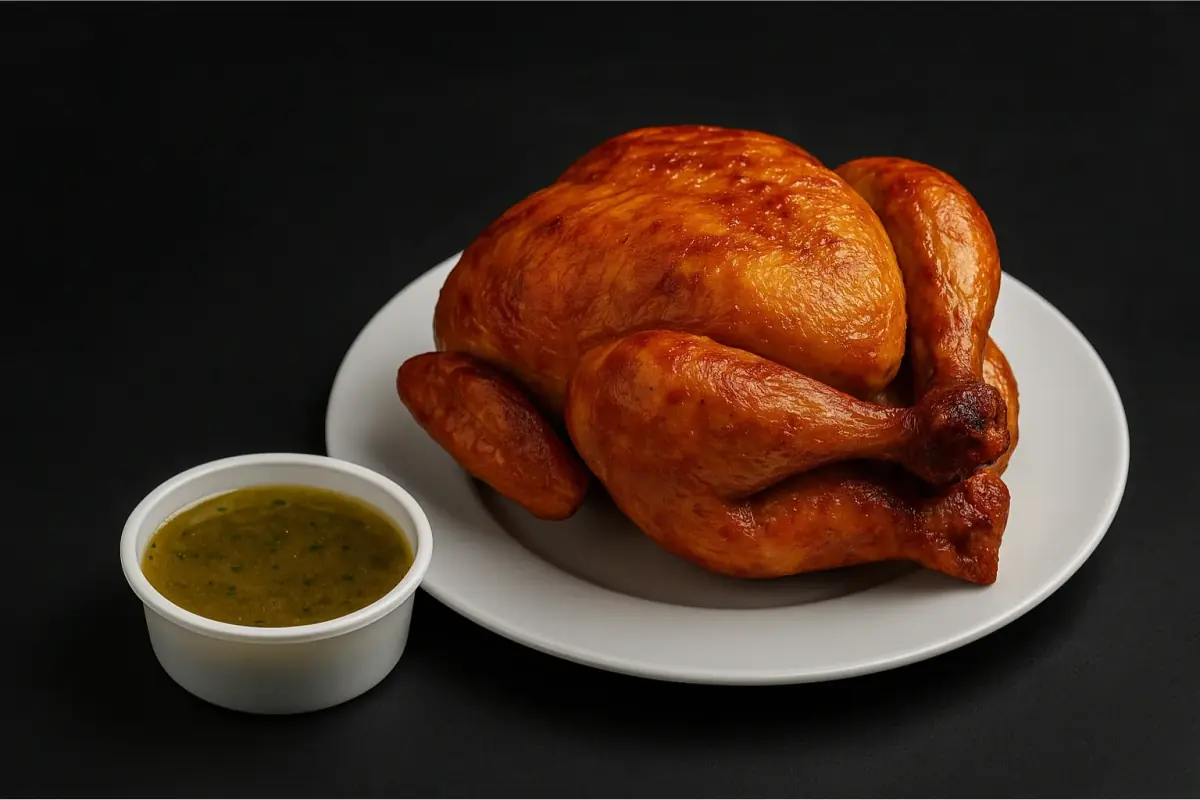
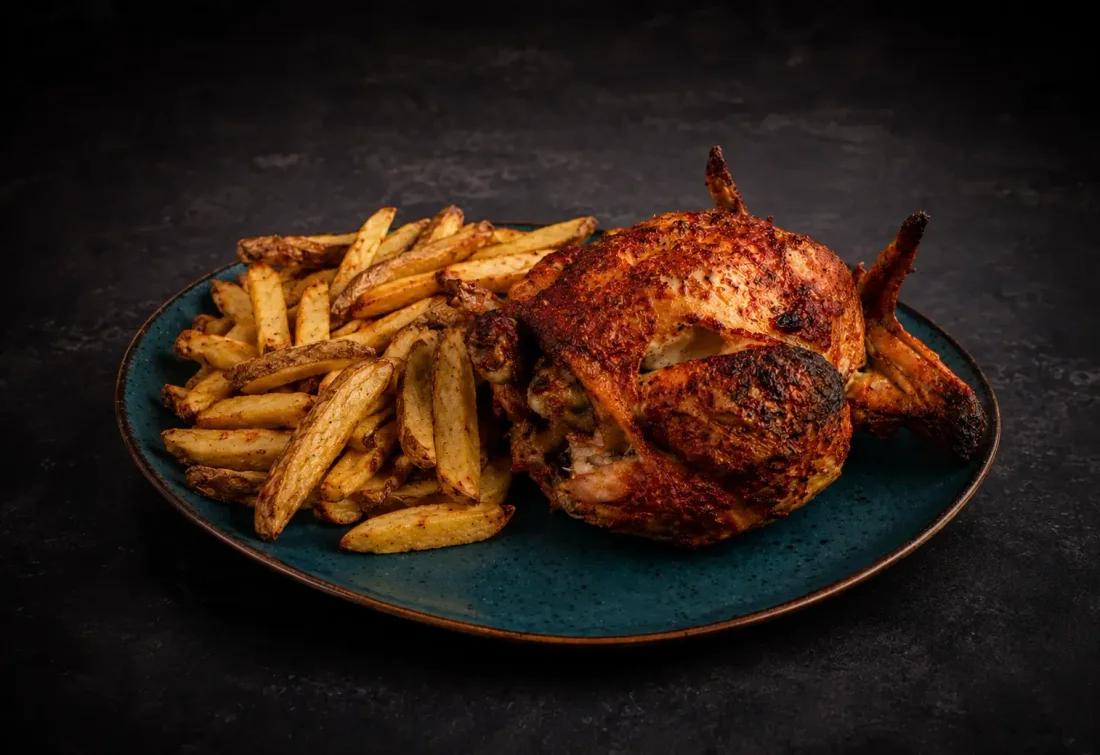
Ajustes tras revisión: franja Home, imagen de pollo y GIF en página local
- Home: la franja de información local ("Comida casera para llevar, aquí
  al lado") ahora usa el mismo patrón tipográfico que el resto de la
  página (eyebrow dorado + h2 + párrafo, como en "Lo más pedido"), con
  todo el contenido centrado para que encaje con la estética general.
- Nuestros productos: la tarjeta "Pollo asado" usa ahora la misma foto
  que el hero banner (recomprimida a ~86 KB para la carta).
- /pollo-asado-san-fernando-de-henares: sustituye la foto estática por un
  GIF del pollo girando en el horno (generado a partir del vídeo
  proporcionado, recortado y comprimido a 320px/1.6 MB para no penalizar
  el rendimiento), mostrado a su tamaño nativo en vez de estirado.

diff --git a/src/pages/PolloAsado.jsx b/src/pages/PolloAsado.jsx
@@ -2,7 +2,7 @@ import Seo from '../components/Seo'
 import Breadcrumbs from '../components/Breadcrumbs'
 import '../components/localpage.css'
 
-import polloAsado from '../assets/products/pollo-asado.webp'
+import polloAsadoGif from '../assets/pollo-asado.gif'
 import pollosEstrellas from '../assets/ofertas/pollos-y-estrellas.webp'
 
 const BREADCRUMB_ITEMS = [
@@ -43,12 +43,12 @@ export default function PolloAsado() {
           semana.
         </p>
 
-        <figure className="localPage__figure">
+        <figure className="localPage__figure localPage__figure--gif">
           <img
-            src={polloAsado}
-            alt="Pollo asado casero de Kilo y Cuarto con patatas panadera"
-            width="1200"
-            height="800"
+            src={polloAsadoGif}
+            alt="Pollo asado girando en el horno de Kilo y Cuarto"
+            width="320"
+            height="180"
             loading="lazy"
             decoding="async"
           />

diff --git a/src/components/home.css b/src/components/home.css
@@ -12,16 +12,34 @@ body {
 }
 
 .homeIntro__inner {
-  max-width: 900px;
+  max-width: 860px;
   margin: 0 auto;
   text-align: center;
 }
 
+.homeIntro__eyebrow {
+  margin: 0 0 1rem;
+  font-size: 13px;
+  font-weight: 800;
+  letter-spacing: 1.8px;
+  text-transform: uppercase;
+  color: #d4ad24;
+}
+
+.homeIntro__inner h2 {
+  margin: 0 0 1.25rem;
+  font-size: clamp(2rem, 4vw, 3rem);
+  line-height: 1.12;
+  color: #1f1f1f;
+  font-weight: 800;
+}
+
 .homeIntro__text {
-  font-size: 1.1rem;
-  line-height: 1.65;
-  color: #333;
-  margin: 0 0 1.5rem;
+  margin: 0 auto 1.75rem;
+  max-width: 720px;
+  font-size: 18px;
+  line-height: 1.7;
+  color: #555;
 }
 
 .homeIntro__nap {
@@ -87,7 +105,8 @@ body {
 
 @media (max-width: 600px) {
   .homeIntro { padding: 2.5rem 1rem; }
-  .homeIntro__text { font-size: 1rem; }
+  .homeIntro__eyebrow { font-size: 12px; letter-spacing: 1.5px; }
+  .homeIntro__text { font-size: 16px; }
 }
 
 /* === SECCIÓN ZIZZI === */

diff --git a/src/pages/Home.jsx b/src/pages/Home.jsx
@@ -41,6 +41,8 @@ export default function Home() {
       {/* Franja de información local: qué somos, dónde estamos y cómo pedir */}
       <section className="homeIntro" data-aos="fade-up">
         <div className="homeIntro__inner">
+          <p className="homeIntro__eyebrow">Kilo y Cuarto</p>
+          <h2>Comida casera para llevar, aquí al lado</h2>
           <p className="homeIntro__text">
             Somos un negocio familiar de comida casera para llevar en San
             Fernando de Henares: pollos asados, paellas y arroces, menú del

diff --git a/src/components/localpage.css b/src/components/localpage.css
@@ -86,6 +86,14 @@
   text-align: center;
 }
 
+/* GIF animado: se muestra cerca de su resolución nativa (no se estira a
+   todo el ancho) para que no pierda nitidez. */
+.localPage__figure--gif img {
+  width: auto;
+  max-width: 100%;
+  margin: 0 auto;
+}
+
 .localPage__gallery {
   display: grid;
   grid-template-columns: repeat(2, minmax(0, 1fr));
